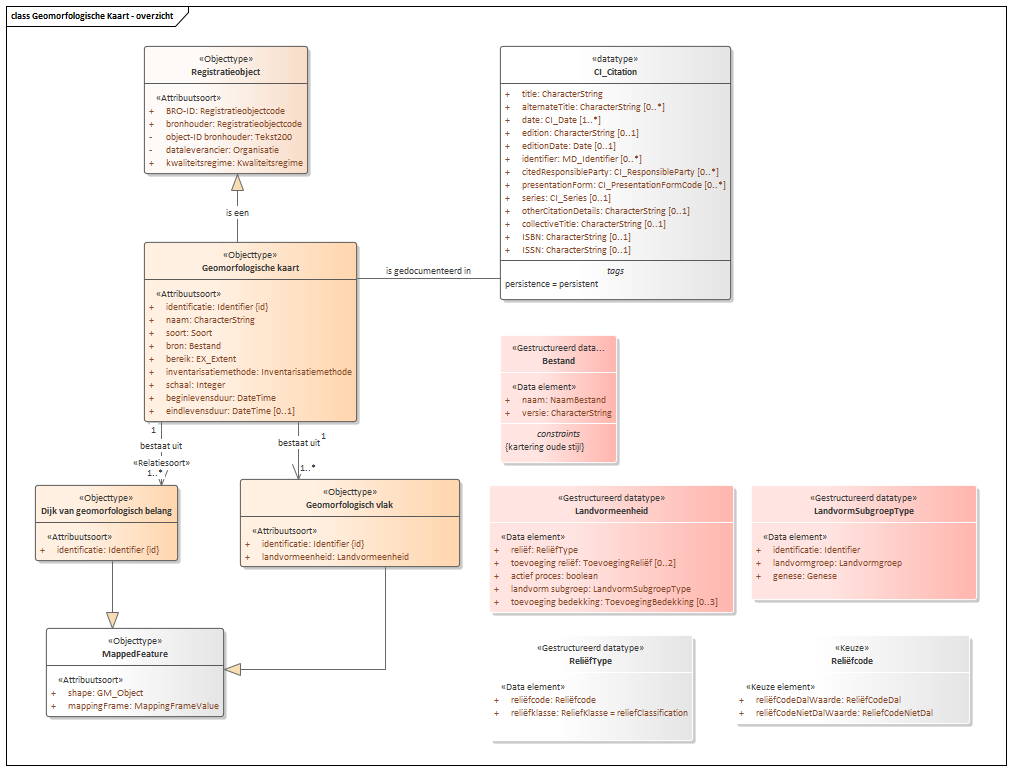
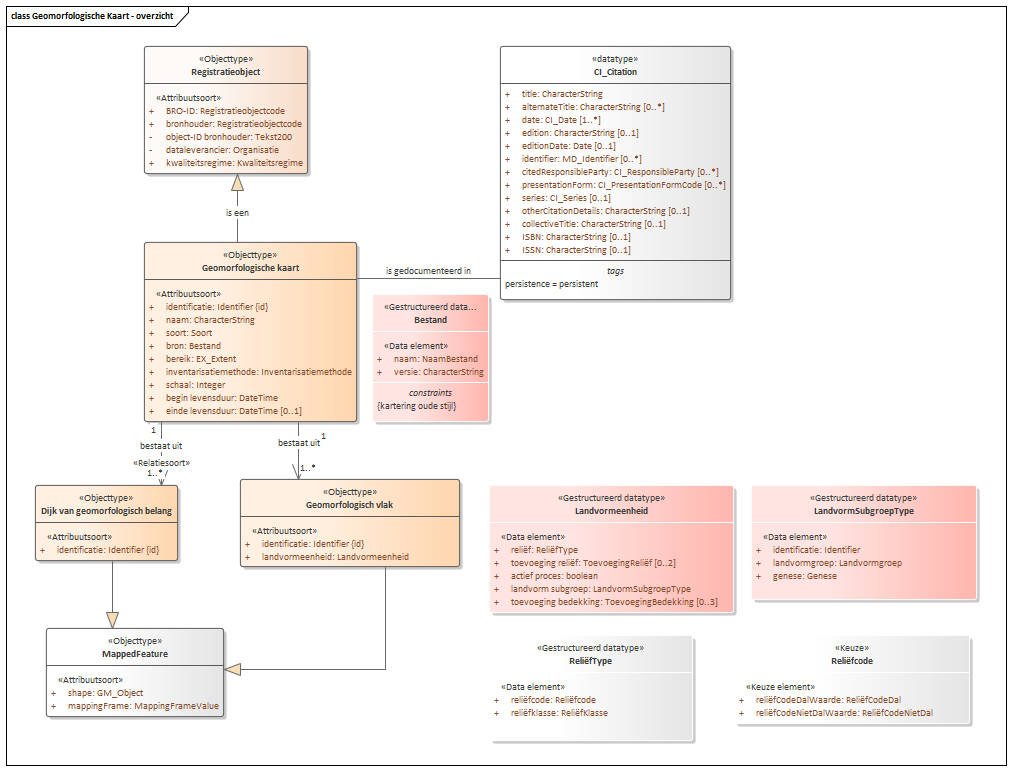
Conceptualmodel-GeomorfologischekaartGMM-conceptueel-1.0-1-20190510-20210317-144204

Changed region(s): [[0.3676, 0.3735, 0.6126, 0.6226], [0.1838, 0.4981, 0.3063, 0.5603], [0.6126, 0.9027, 0.6739, 0.9339]]

diff --git a/data/GMM-cat.msword.html b/data/GMM-cat.msword.html
@@ -15,7 +15,7 @@
    <body>
       <p>Conceptual model/Geomorfologische kaart (GMM) - conceptueel/20190510</p>
       <p>Imvertor: 1.63.0</p>
-      <p>Model release: Conceptualmodel-GeomorfologischekaartGMM-conceptueel-1.0-1-20190510-20210317-143701</p>
+      <p>Model release: Conceptualmodel-GeomorfologischekaartGMM-conceptueel-1.0-1-20190510-20210317-144204</p>
       <hr>
       <section>
          <h1>Artikel 1 Definitie van registratieobject, entiteiten en attributen</h1>
@@ -381,7 +381,7 @@
                         </tbody>
                      </table>
                      </section><a class="anchor" id="detail_attribute_GeomorfologischeKaartGMM_Geomorfologischekaart_beginlevensduur"></a><section id="detail_attribute_GeomorfologischeKaartGMM_Geomorfologischekaart_beginlevensduur">
-                     <h4>  beginlevensduur</h4>
+                     <h4>  begin levensduur</h4>
                      
                      <table style="width: 100%;">
                         <colgroup style="width: 30%;"></colgroup>
@@ -417,8 +417,8 @@
                            </tr>
                         </tbody>
                      </table>
-                     </section><a class="anchor" id="detail_attribute_GeomorfologischeKaartGMM_Geomorfologischekaart_eindlevensduur"></a><section id="detail_attribute_GeomorfologischeKaartGMM_Geomorfologischekaart_eindlevensduur">
-                     <h4>  eindlevensduur</h4>
+                     </section><a class="anchor" id="detail_attribute_GeomorfologischeKaartGMM_Geomorfologischekaart_eindelevensduur"></a><section id="detail_attribute_GeomorfologischeKaartGMM_Geomorfologischekaart_eindelevensduur">
+                     <h4>  einde levensduur</h4>
                      
                      <table style="width: 100%;">
                         <colgroup style="width: 30%;"></colgroup>
@@ -901,8 +901,8 @@
                </tbody>
             </table>
             </section>
-         <section id="detail_class_GeomorfologischeKaartGMM_ReliefCodeNietDal">
-            <h3>  ReliefCodeNietDal</h3>
+         <section id="detail_class_GeomorfologischeKaartGMM_RelifCodeNietDal">
+            <h3>  ReliëfCodeNietDal</h3>
             
             <table style="width: 100%;" class="list">
                <colgroup></colgroup>
@@ -970,8 +970,8 @@
                </tbody>
             </table>
             </section>
-         <section id="detail_class_GeomorfologischeKaartGMM_ReliefKlasse">
-            <h3>  ReliefKlasse</h3>
+         <section id="detail_class_GeomorfologischeKaartGMM_RelifKlasse">
+            <h3>  ReliëfKlasse</h3>
             
             <table style="width: 100%;" class="list">
                <colgroup></colgroup>

diff --git a/data/GMM-cat.respec.html b/data/GMM-cat.respec.html
@@ -357,7 +357,7 @@
                </tbody>
             </table>
             </section><a class="anchor" id="detail_attribute_GeomorfologischeKaartGMM_Geomorfologischekaart_beginlevensduur"></a><section id="detail_attribute_GeomorfologischeKaartGMM_Geomorfologischekaart_beginlevensduur">
-            <h4>  beginlevensduur</h4>
+            <h4>  begin levensduur</h4>
             
             <table style="width: 100%;">
                <colgroup style="width: 30%;"></colgroup>
@@ -393,8 +393,8 @@
                   </tr>
                </tbody>
             </table>
-            </section><a class="anchor" id="detail_attribute_GeomorfologischeKaartGMM_Geomorfologischekaart_eindlevensduur"></a><section id="detail_attribute_GeomorfologischeKaartGMM_Geomorfologischekaart_eindlevensduur">
-            <h4>  eindlevensduur</h4>
+            </section><a class="anchor" id="detail_attribute_GeomorfologischeKaartGMM_Geomorfologischekaart_eindelevensduur"></a><section id="detail_attribute_GeomorfologischeKaartGMM_Geomorfologischekaart_eindelevensduur">
+            <h4>  einde levensduur</h4>
             
             <table style="width: 100%;">
                <colgroup style="width: 30%;"></colgroup>
@@ -875,8 +875,8 @@
          </tbody>
       </table>
       </section>
-   <section id="detail_class_GeomorfologischeKaartGMM_ReliefCodeNietDal">
-      <h2>  ReliefCodeNietDal</h2>
+   <section id="detail_class_GeomorfologischeKaartGMM_RelifCodeNietDal">
+      <h2>  ReliëfCodeNietDal</h2>
       
       <table style="width: 100%;" class="list">
          <colgroup></colgroup>
@@ -944,8 +944,8 @@
          </tbody>
       </table>
       </section>
-   <section id="detail_class_GeomorfologischeKaartGMM_ReliefKlasse">
-      <h2>  ReliefKlasse</h2>
+   <section id="detail_class_GeomorfologischeKaartGMM_RelifKlasse">
+      <h2>  ReliëfKlasse</h2>
       
       <table style="width: 100%;" class="list">
          <colgroup></colgroup>
